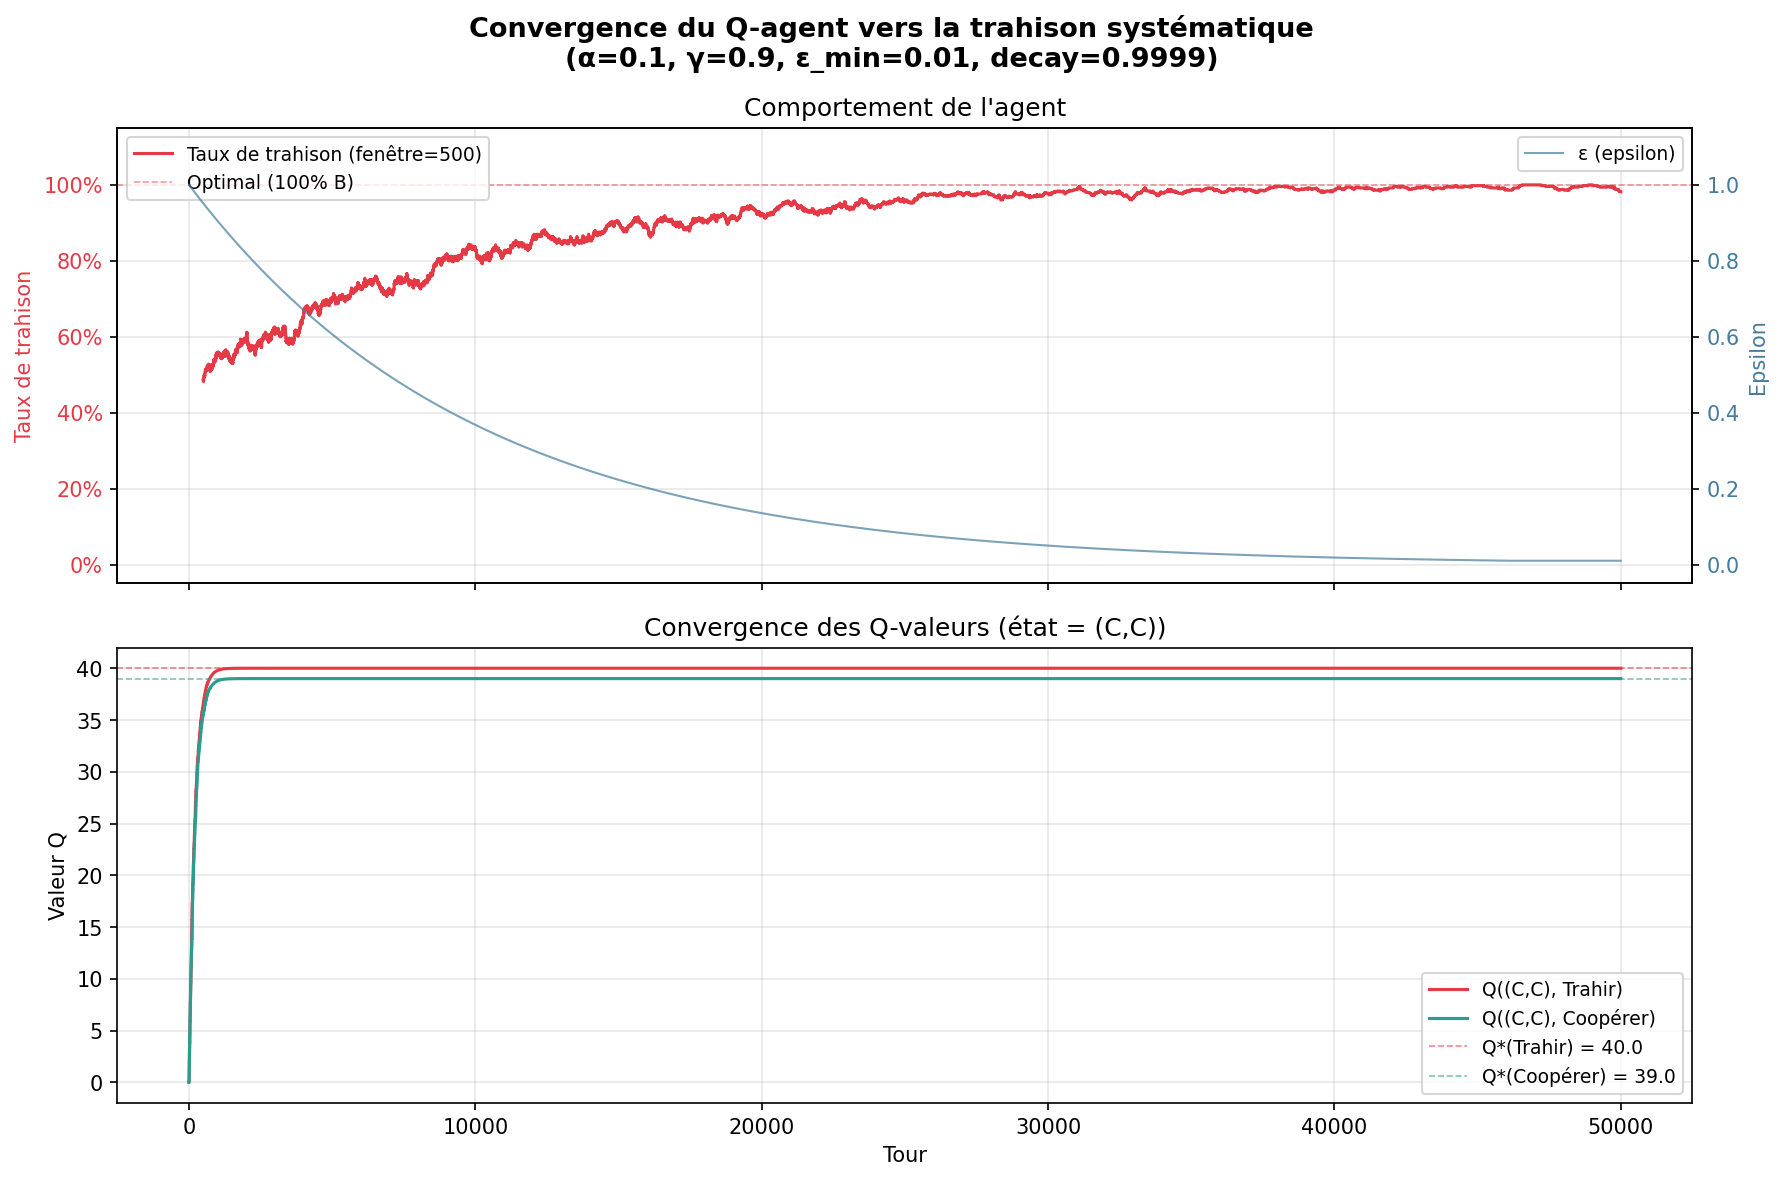
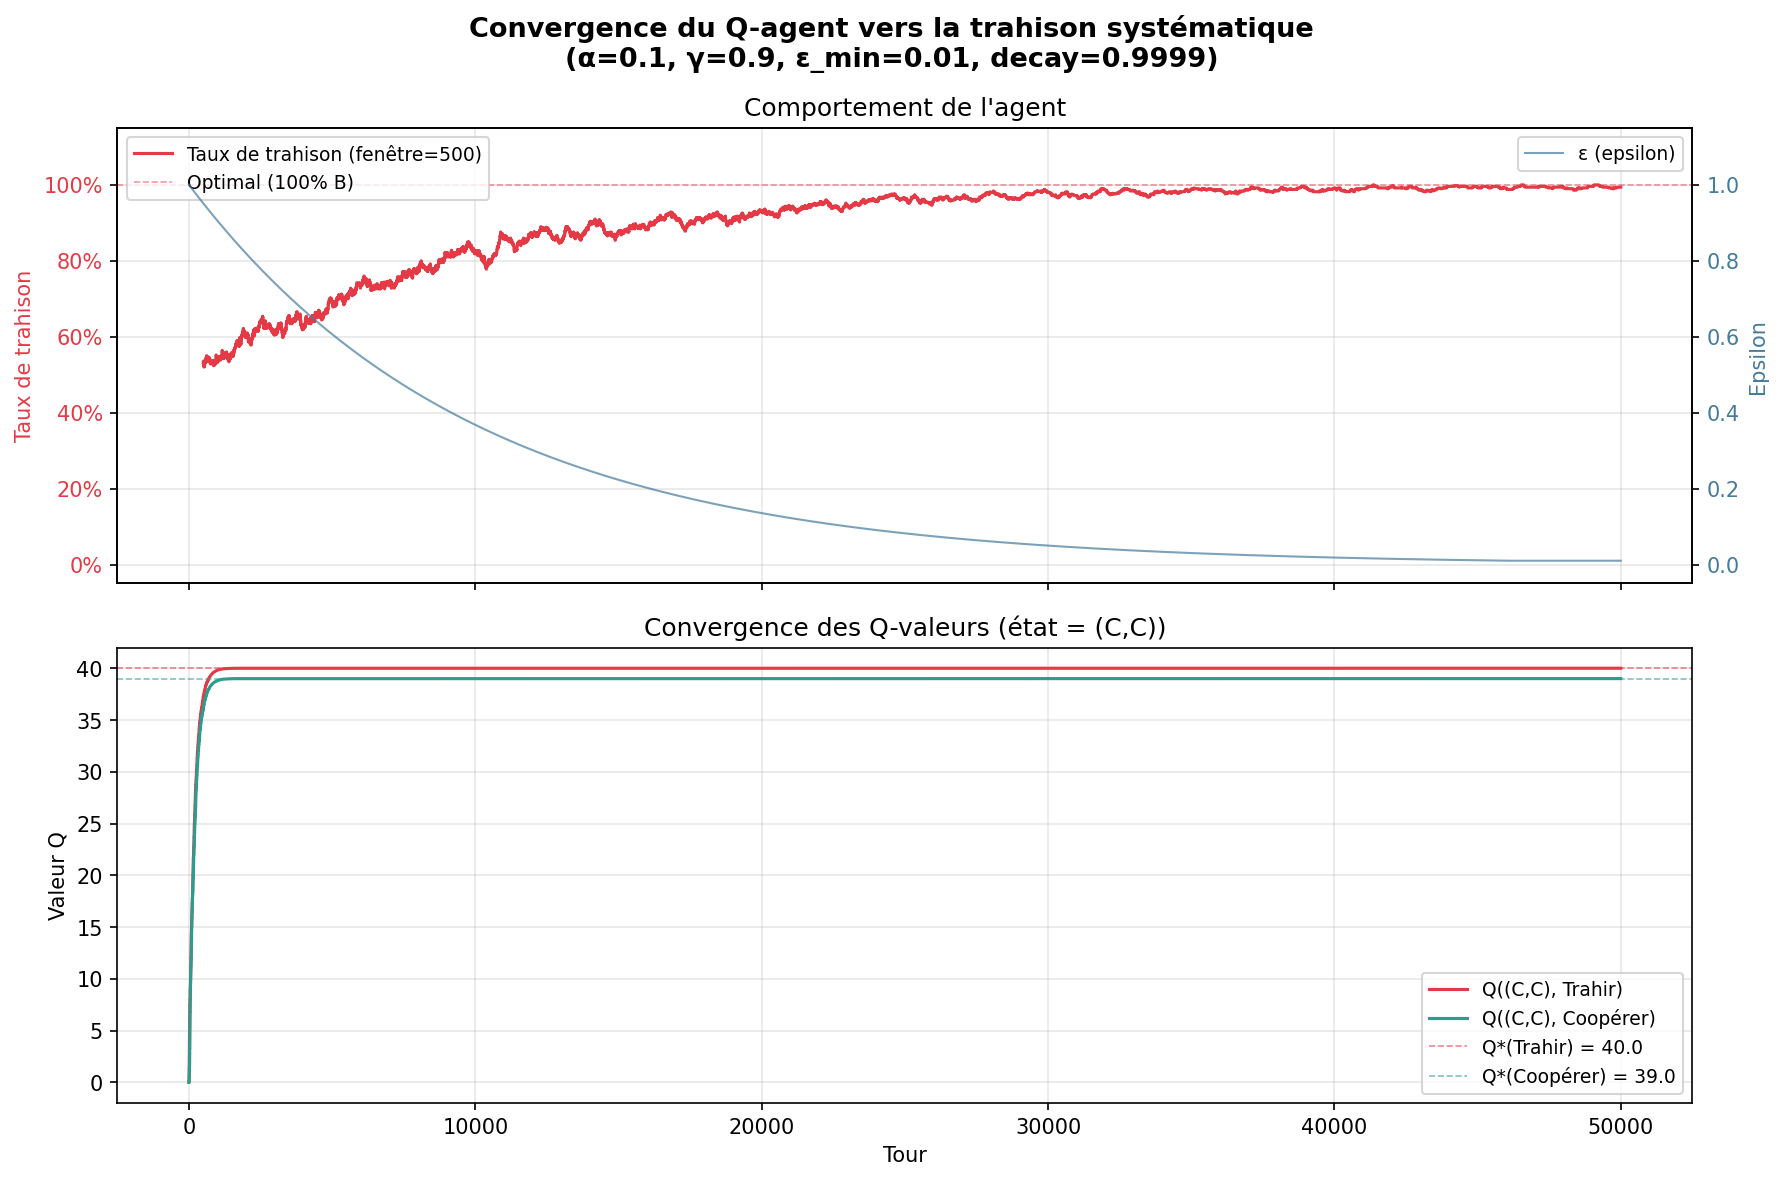
Clear main and plot in utils

diff --git a/utils.py b/utils.py
@@ -1,8 +1,94 @@
-import random
+import matplotlib
+matplotlib.use('Agg')  # Non-interactive backend (no Tcl/Tk required) — must precede pyplot import
+import matplotlib.pyplot as plt
+import matplotlib.ticker as mticker
+import numpy as np
+import os
+from strategies import QLearningStrategy
 
-def shuffle(lst):
-    while True:
-        perm = lst[:]
-        random.shuffle(perm)
-        if all(perm[i] != lst[i] for i in range(len(lst))):
-            return perm
+
+def plot_convergence(game, num_turns: int, output_path: str = "convergence.png") -> None:
+    """
+    Generate and save a two-panel figure illustrating the convergence of the
+    Q-learning agent toward the systematic defection policy.
+    """
+    # --- Retrieve all Q-learning agents from the population ---
+    ql_agents = [
+        agent for agent in game.players.values()
+        if isinstance(agent.get_strategy(), QLearningStrategy)
+    ]
+    if not ql_agents:
+        print("No Q-learning agent found; figure not generated.")
+        return
+
+    # Select the first Q-learning agent for analysis
+    strat = ql_agents[0].get_strategy()
+    hist  = strat.history
+    T     = len(hist["action"])   # Total no. of steps recorded
+    turns = np.arange(1, T + 1)
+
+    # --- Compute rolling defection rate (uniform moving avg. over 'window' steps) ---
+    window = max(200, T // 100)
+    actions_bin = np.array([1 if a == "B" else 0 for a in hist["action"]], dtype=float)
+    betray_rate = np.convolve(actions_bin, np.ones(window) / window, mode="valid")
+    turns_roll  = turns[window - 1:]
+
+    # --- Theoretical fixed-point Q* values (Bellman optimality, infinite horizon) ---
+    # Q*(B) = r_B / (1 - γ)  with r_B = 4  →  Q*(B) = 4 / (1 - γ)
+    # Q*(C) = r_C + γ · Q*(B)  with r_C = 3  →  Q*(C) = 3 + γ · Q*(B)
+    gamma         = strat.gamma
+    q_star_betray = 4 / (1 - gamma)          # Optimal Q-val for defection
+    q_star_coop   = 3 + gamma * q_star_betray # Optimal Q-val for cooperation
+
+    # ===================== FIGURE LAYOUT =====================
+    fig, (ax1, ax2) = plt.subplots(2, 1, figsize=(12, 8), sharex=True)
+    fig.suptitle(
+        "Convergence of the Q-agent toward systematic defection\n"
+        f"(α={strat.alpha}, γ={strat.gamma}, "
+        f"ε_min={strat.epsilon_min}, decay={strat.epsilon_decay})",
+        fontsize=13, fontweight="bold"
+    )
+
+    # ---- Panel 1: Rolling defection rate + exploration rate (ε) ----
+    color_betray = "#E63946"
+    color_eps    = "#457B9D"
+
+    ax1.plot(turns_roll, betray_rate, color=color_betray, lw=1.5,
+             label=f"Defection rate (window={window})")
+    ax1.axhline(1.0, color=color_betray, lw=0.8, ls="--", alpha=0.5, label="Optimal policy (100% D)")
+    ax1.set_ylabel("Defection rate", color=color_betray)
+    ax1.tick_params(axis="y", labelcolor=color_betray)
+    ax1.set_ylim(-0.05, 1.15)
+    ax1.yaxis.set_major_formatter(mticker.PercentFormatter(xmax=1))
+    ax1.legend(loc="upper left", fontsize=9)
+    ax1.set_title("Agent behaviour over time")
+    ax1.grid(True, alpha=0.3)
+
+    # Secondary y-axis: ε schedule
+    ax1b = ax1.twinx()
+    ax1b.plot(turns, hist["epsilon_hist"], color=color_eps, lw=1, alpha=0.7, label="ε (exploration rate)")
+    ax1b.set_ylabel("ε", color=color_eps)
+    ax1b.tick_params(axis="y", labelcolor=color_eps)
+    ax1b.set_ylim(-0.05, 1.15)
+    ax1b.legend(loc="upper right", fontsize=9)
+
+    # ---- Panel 2: Q-value trajectories vs. theoretical optima ----
+    color_qb = "#E63946"
+    color_qc = "#2A9D8F"
+
+    ax2.plot(turns, hist["q_betray"], color=color_qb, lw=1.5, label="Q((C,C), Defect)")
+    ax2.plot(turns, hist["q_coop"],   color=color_qc, lw=1.5, label="Q((C,C), Cooperate)")
+    ax2.axhline(q_star_betray, color=color_qb, lw=0.8, ls="--", alpha=0.6,
+                label=f"Q*(Defect) = {q_star_betray:.1f}")
+    ax2.axhline(q_star_coop,   color=color_qc, lw=0.8, ls="--", alpha=0.6,
+                label=f"Q*(Cooperate) = {q_star_coop:.1f}")
+    ax2.set_ylabel("Q-value")
+    ax2.set_xlabel("Step")
+    ax2.legend(loc="lower right", fontsize=9)
+    ax2.set_title("Q-value convergence for state (C, C)")
+    ax2.grid(True, alpha=0.3)
+
+    plt.tight_layout()
+    plt.savefig(output_path, dpi=150, bbox_inches="tight")
+    print(f"\nFigure saved: {os.path.abspath(output_path)}")
+    plt.close()

diff --git a/main.py b/main.py
@@ -2,97 +2,7 @@ from classes.game import Game
 import default_params
 import argparse
 from strategies import *
-import matplotlib
-matplotlib.use('Agg')  # Backend sans fenêtre (pas besoin de Tcl/Tk)
-import matplotlib.pyplot as plt
-import matplotlib.ticker as mticker
-import numpy as np
-import os
-
-def plot_convergence(game: Game, num_turns: int, output_path: str = "convergence.png") -> None:
-    """
-    Génère et sauvegarde un graphe combiné montrant la convergence du Q-agent
-    vers la trahison systématique.
-    """
-    # --- Récupérer le(s) Q-agent(s) ---
-    ql_agents = [
-        agent for agent in game.players.values()
-        if isinstance(agent.get_strategy(), QLearningStrategy)
-    ]
-    if not ql_agents:
-        print("Aucun Q-agent trouvé, graphe non généré.")
-        return
-
-    # On prend le premier Q-agent
-    strat = ql_agents[0].get_strategy()
-    hist  = strat.history
-    T     = len(hist["action"])
-    turns = np.arange(1, T + 1)
-
-    # --- Rolling betrayal rate ---
-    window = max(200, T // 100)
-    actions_bin = np.array([1 if a == "B" else 0 for a in hist["action"]], dtype=float)
-    betray_rate = np.convolve(actions_bin, np.ones(window) / window, mode="valid")
-    turns_roll  = turns[window - 1:]
-
-    # --- Valeurs théoriques ---
-    gamma = strat.gamma
-    q_star_betray = 4 / (1 - gamma)   # 40
-    q_star_coop   = 3 / (1 - gamma) * gamma + 3  # === 3 + gamma*q_star_betray if we take max=B
-    # Re-compute properly: Q*(B)=40, Q*(C)=3+0.9*40=39
-    q_star_betray = 4 / (1 - gamma)
-    q_star_coop   = 3 + gamma * q_star_betray
-
-    # ===================== FIGURE =====================
-    fig, (ax1, ax2) = plt.subplots(2, 1, figsize=(12, 8), sharex=True)
-    fig.suptitle("Convergence du Q-agent vers la trahison systématique\n"
-                 f"(α={strat.alpha}, γ={strat.gamma}, "
-                 f"ε_min={strat.epsilon_min}, decay={strat.epsilon_decay})",
-                 fontsize=13, fontweight="bold")
-
-    # ---- Panneau 1 : Taux de trahison + Epsilon ----
-    color_betray = "#E63946"
-    color_eps    = "#457B9D"
-
-    ax1.plot(turns_roll, betray_rate, color=color_betray, lw=1.5,
-             label=f"Taux de trahison (fenêtre={window})")
-    ax1.axhline(1.0, color=color_betray, lw=0.8, ls="--", alpha=0.5, label="Optimal (100% B)")
-    ax1.set_ylabel("Taux de trahison", color=color_betray)
-    ax1.tick_params(axis="y", labelcolor=color_betray)
-    ax1.set_ylim(-0.05, 1.15)
-    ax1.yaxis.set_major_formatter(mticker.PercentFormatter(xmax=1))
-    ax1.legend(loc="upper left", fontsize=9)
-    ax1.set_title("Comportement de l'agent")
-    ax1.grid(True, alpha=0.3)
-
-    ax1b = ax1.twinx()
-    ax1b.plot(turns, hist["epsilon_hist"], color=color_eps, lw=1, alpha=0.7, label="ε (epsilon)")
-    ax1b.set_ylabel("Epsilon", color=color_eps)
-    ax1b.tick_params(axis="y", labelcolor=color_eps)
-    ax1b.set_ylim(-0.05, 1.15)
-    ax1b.legend(loc="upper right", fontsize=9)
-
-    # ---- Panneau 2 : Q-valeurs ----
-    color_qb = "#E63946"
-    color_qc = "#2A9D8F"
-
-    ax2.plot(turns, hist["q_betray"], color=color_qb, lw=1.5, label="Q((C,C), Trahir)")
-    ax2.plot(turns, hist["q_coop"],   color=color_qc, lw=1.5, label="Q((C,C), Coopérer)")
-    ax2.axhline(q_star_betray, color=color_qb, lw=0.8, ls="--", alpha=0.6,
-                label=f"Q*(Trahir) = {q_star_betray:.1f}")
-    ax2.axhline(q_star_coop,   color=color_qc, lw=0.8, ls="--", alpha=0.6,
-                label=f"Q*(Coopérer) = {q_star_coop:.1f}")
-    ax2.set_ylabel("Valeur Q")
-    ax2.set_xlabel("Tour")
-    ax2.legend(loc="lower right", fontsize=9)
-    ax2.set_title("Convergence des Q-valeurs (état = (C,C))")
-    ax2.grid(True, alpha=0.3)
-
-    plt.tight_layout()
-    plt.savefig(output_path, dpi=150, bbox_inches="tight")
-    print(f"\n📊 Graphe sauvegardé : {os.path.abspath(output_path)}")
-    plt.close()
-
+from utils import plot_convergence
 
 def main() :
 
